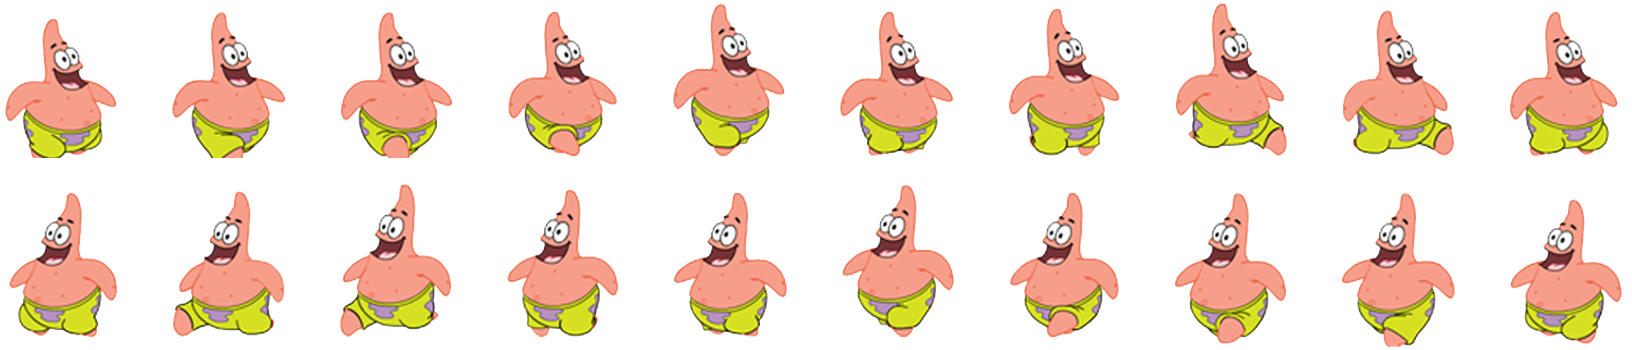
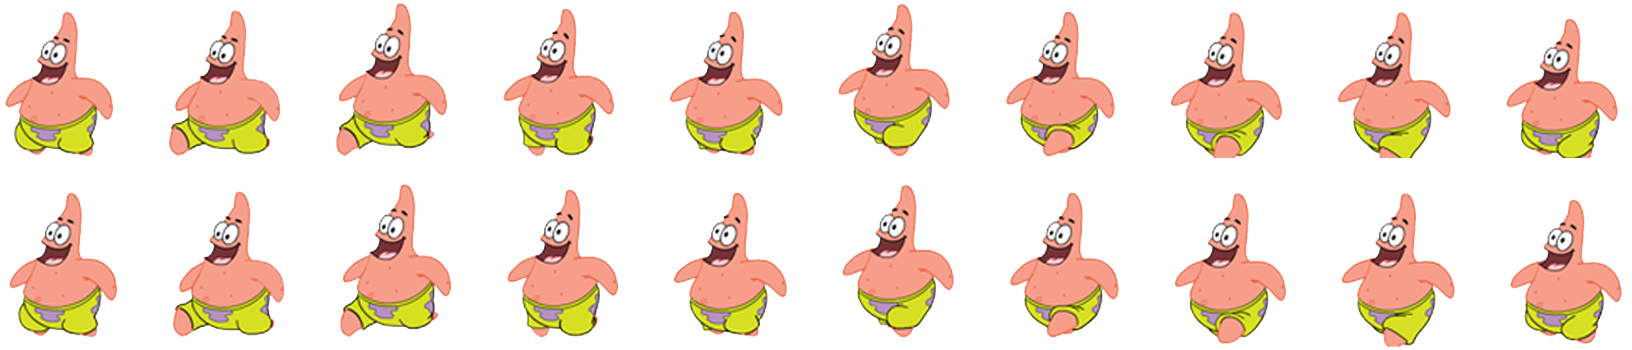
.

Changed region(s): [[0.0, 0.0, 0.375, 0.4571], [0.7188, 0.0286, 1.0, 0.4571], [0.4062, 0.0, 0.6875, 0.4571]]

diff --git a/index.html b/index.html
@@ -37,7 +37,7 @@
             var spriteHeight = 350;
 
             var rows = 2;//кількість колонок
-            var cols = 10;//кількість кадрів
+            var cols = 9;//кількість кадрів
 
             //0 (перший) рядок для руху вправо
             var trackRight = 0;
